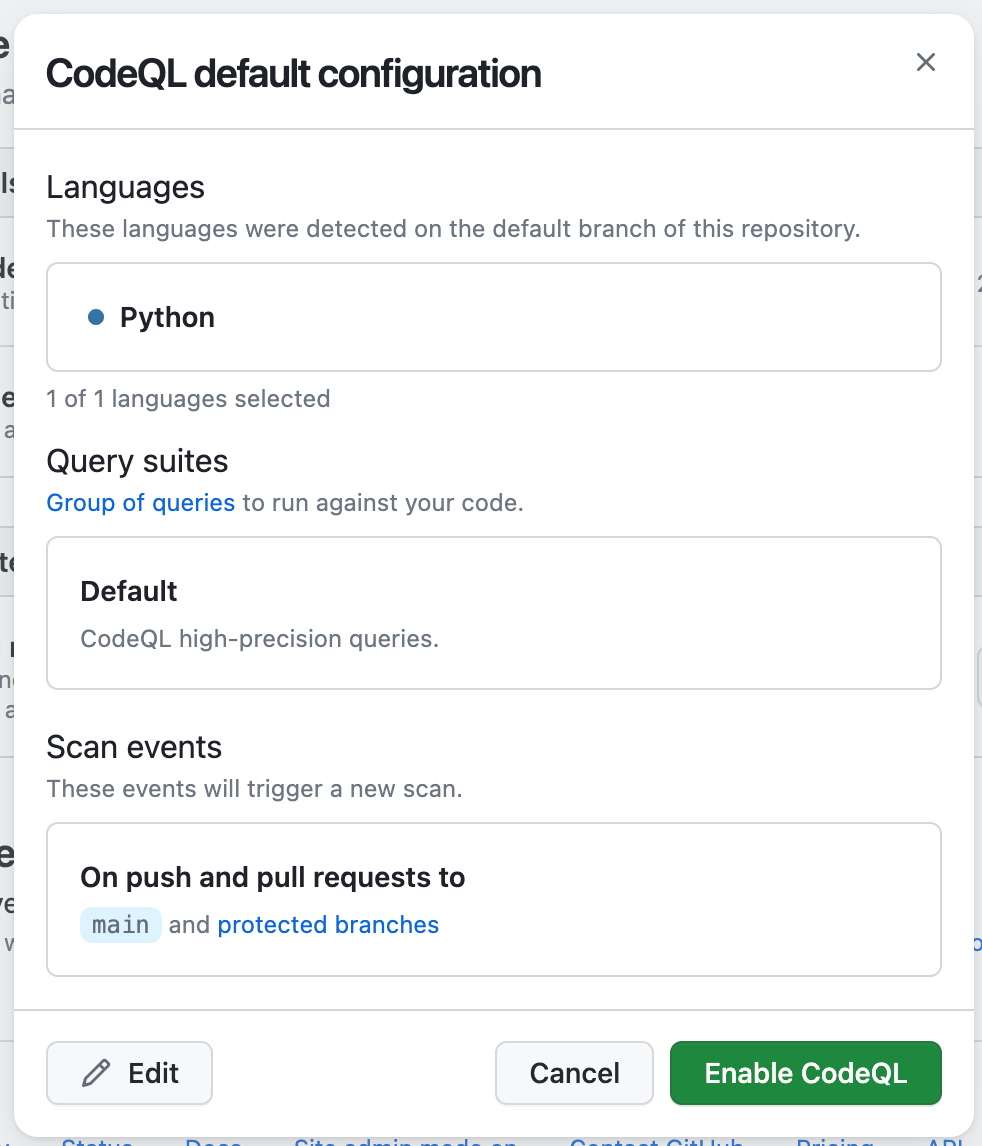
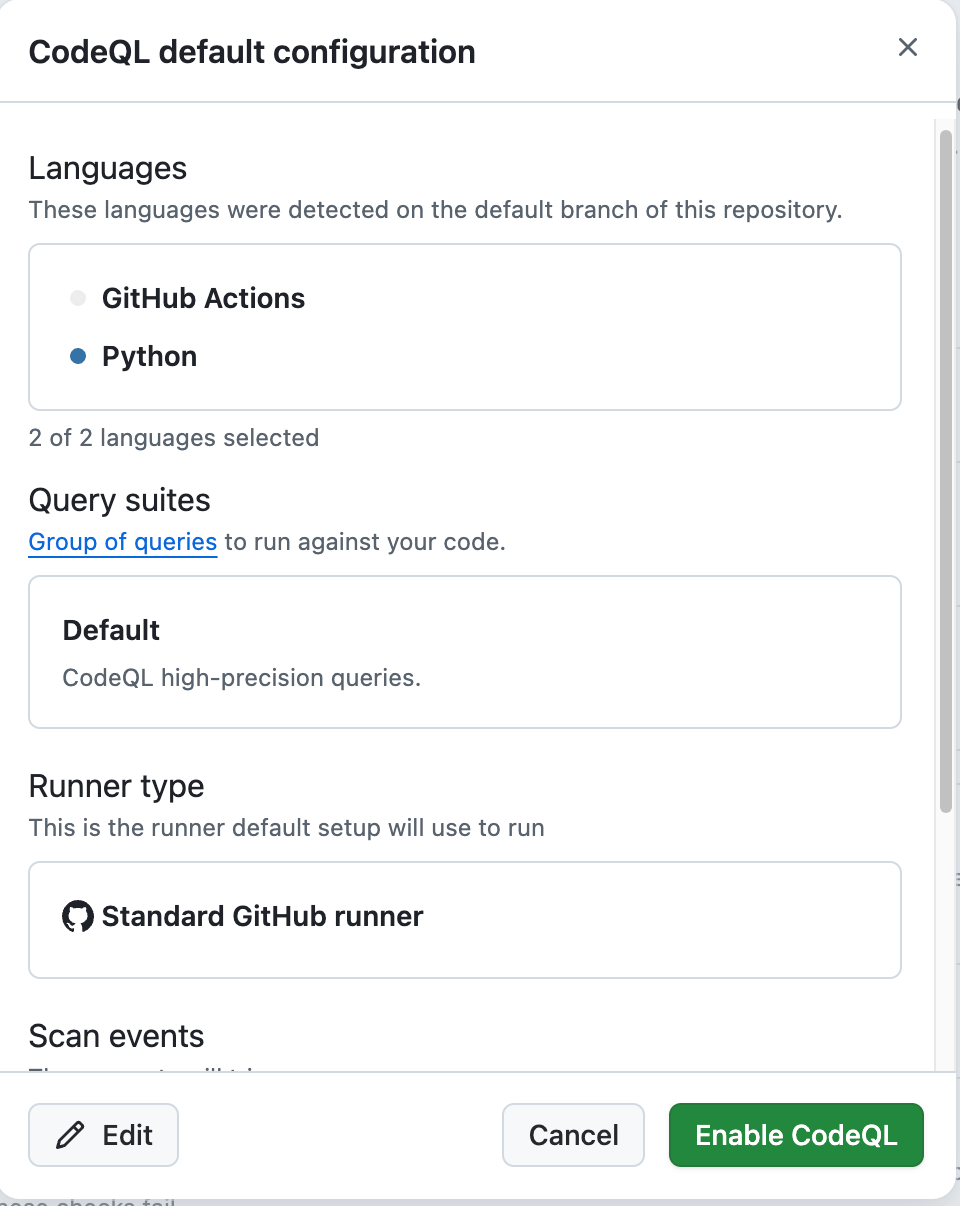
chore: mention runner type choice option in codeql configuration and update all workflow/actions versions (#57)

Pull request: chore: mention runner type choice option in codeql configuration and update all workflow/actions versions
Test run: https://github.com/FidelusAleksander/skills-introduction-to-codeql

### Summary
<!-- A clear and concise description of what the problem or opportunity is. -->

This pull request updates the exercise repository to use newer versions of GitHub Actions and the exercise toolkit, and adds documentation improvements for CodeQL configuration. The main focus is on upgrading workflow dependencies and enhancing the documentation for runner configuration.

Workflow dependency upgrades:

* Updated all references to `actions/checkout` from version `v4` to `v6` across workflow files (`.github/workflows/0-start-exercise.yml`, `.github/workflows/1-step.yml`, `.github/workflows/2-step.yml`, `.github/workflows/3-step.yml`, `.github/workflows/4-step.yml`). [[1]](diffhunk://#diff-391af7b32d36608157476690176e9511356d1dc7b17f7e2c596e0128cf485bc0L36-R45) [[2]](diffhunk://#diff-6c6f5ac6d7d4f149a1e9ed5091f17d9cb9561291ffc92165ad87ed13ad440c0eL32-R39) [[3]](diffhunk://#diff-19e83e79b520eae3dce9ab2230673b8eb4c551296d7cb4081a9cf52825d5ace6L32-R39) [[4]](diffhunk://#diff-94bad2f3b152c388b6c0a87ed5162854262af57bddafcc9667acc10fb5f877aaL69-R76) [[5]](diffhunk://#diff-79a8e086854a4af3f97804551208ce078d6add81ba064b7460ab321ea3592caeL32-R39)
[…]

Changed region(s): [[0.0, 0.0305, 1.0, 1.0], [0.2812, 0.8857, 1.0, 1.0], [0.9375, 0.733, 0.9688, 0.7941]]

diff --git a/.github/steps/1-step.md b/.github/steps/1-step.md
@@ -17,13 +17,16 @@ Typically CodeQL [queries](https://codeql.github.com/docs/writing-codeql-queries
 
 In many cases, taking advantage of CodeQL is as simple as accepting the default suite, but you can also select the extended suite or customize your own with [GitHub Actions]().
 
-<img width="200" align="right" alt="codeql default configuration box" src="../images/codeql-default-configuration-box.png"/>
+<img width="250" align="right" alt="codeql default configuration box" src="../images/codeql-default-configuration-box.png"/>
 
 Here are some of the options the default configuration provides:
 
 - **Languages:** Supported languages will automatically be detected in your repository and scanning will be enabled.
 
 - **Query suites:** A list of the available suites of patterns that will be used. The **Default** or **Extended** are provided automatically.
+
+- **Runner type:** Type of GitHub Actions runner that will run the CodeQL analysis. This defaults to Standard GitHub Hosted Runners but can be customized to use [self-hosted runners](https://docs.github.com/en/enterprise-cloud@latest/code-security/how-tos/secure-at-scale/configure-enterprise-security/configure-specific-tools/configuring-code-scanning-for-your-appliance).
+
 
 - **Events:** Triggers for running a CodeQL scan. It's common to run before merging and on a schedule for production code.
 

diff --git a/README.md b/README.md
@@ -37,4 +37,3 @@ If the exercise isn't ready in 20 seconds:
 
 ---
 
-&copy; 2025 GitHub &bull; [Code of Conduct](https://www.contributor-covenant.org/version/2/1/code_of_conduct/code_of_conduct.md) &bull; [MIT License](https://gh.io/mit)